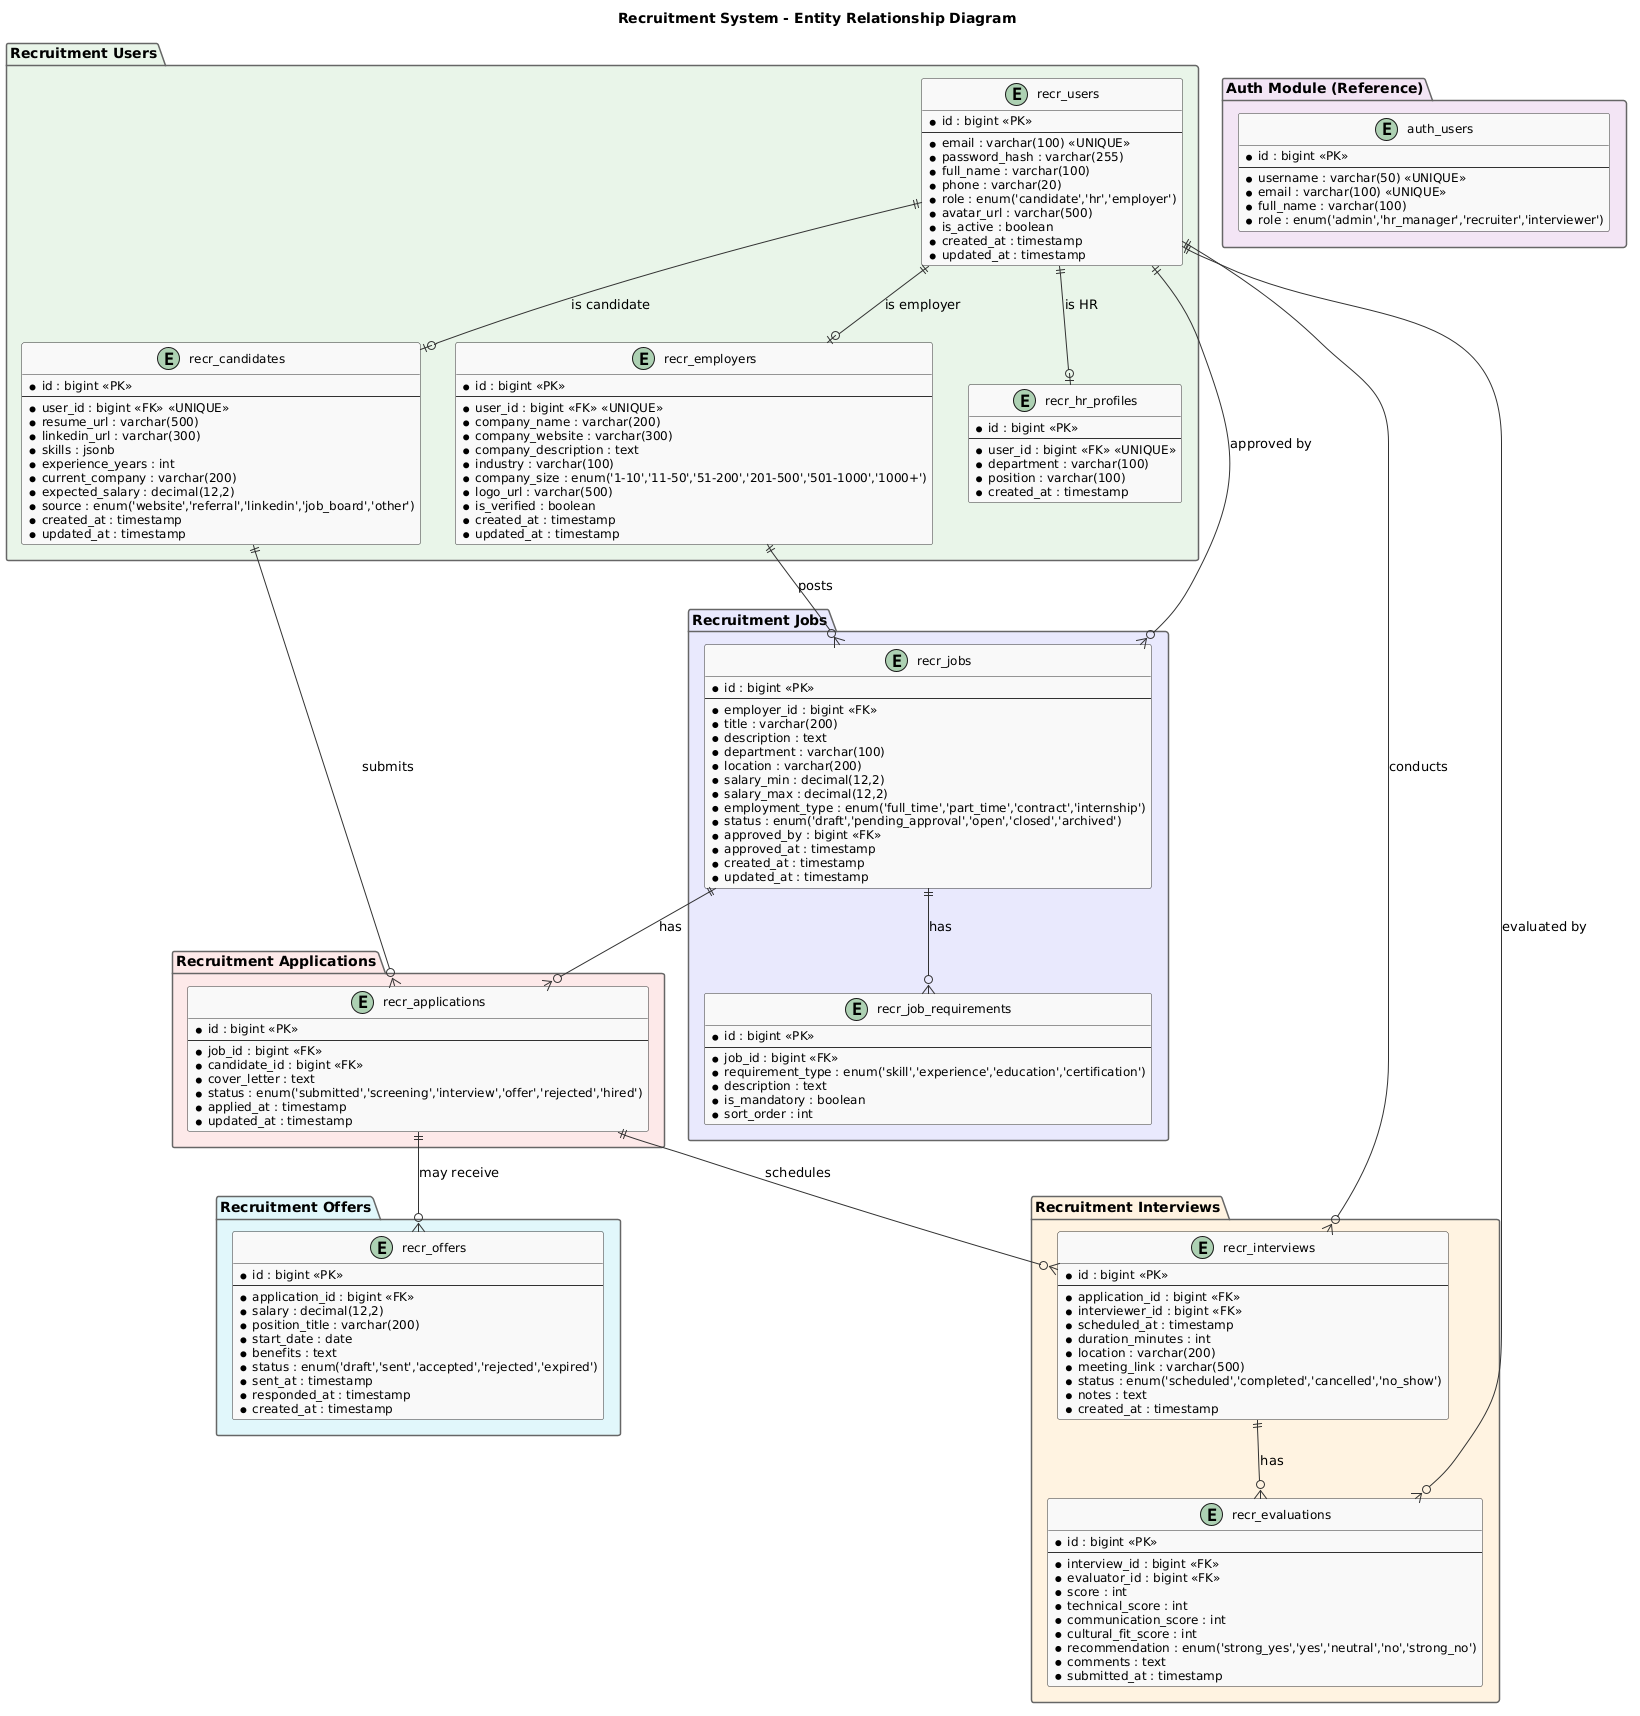
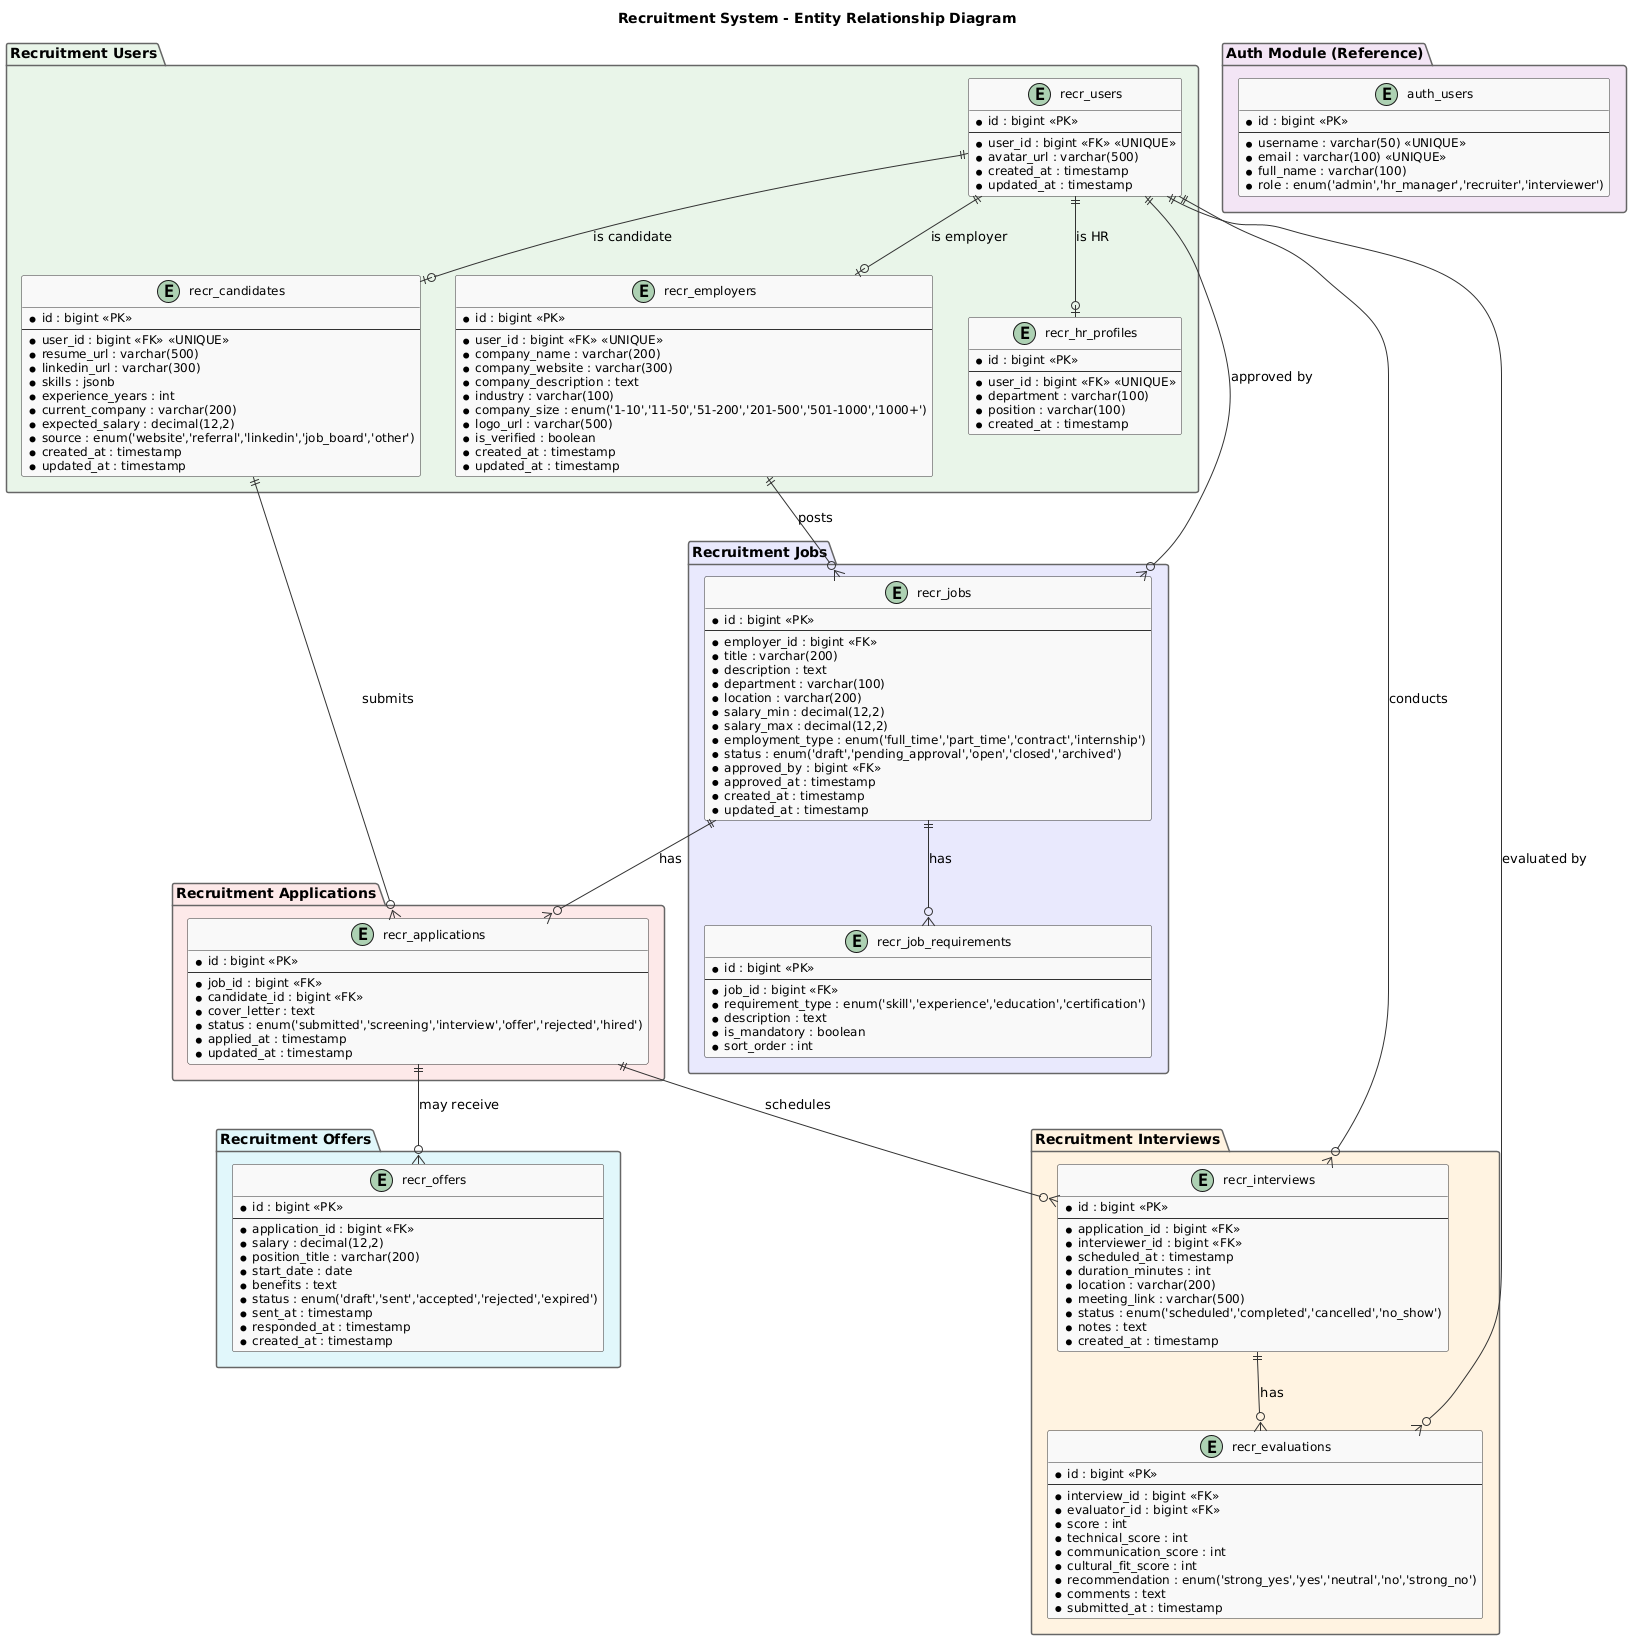
Move role to AUTH module, update UC-01 and UC-02
- Remove role and password_hash from recr_users (now in auth_users)
- UC-01: Pass role to AUTH during registration
- UC-02: AUTH reads role from auth_users, returns in JWT
- Update sequence diagrams and ERD to reflect AUTH/RECR split

diff --git a/modules/recr/src/srs.html b/modules/recr/src/srs.html
@@ -161,15 +161,17 @@
   <li>If Employer: user enters company name, industry, company size</li>
   <li>System validates input data</li>
   <li>System checks email availability</li>
-  <li>System hashes password and creates user record</li>
+  <li>System hashes password and creates user record <strong>with role</strong></li>
   <li>System creates profile (candidate or employer)</li>
-  <li>System generates JWT token</li>
+  <li>System generates JWT token <strong>with role claim</strong></li>
   <li>System returns success response</li>
 </ol>
 <p><strong>AUTH Module Dependency:</strong></p>
 <ul>
-  <li>Steps 5-6 (validate, check email, hash password, create user) are handled by <strong>AUTH module</strong> (FR-001)</li>
-  <li>AUTH returns user_id and JWT token to RECR</li>
+  <li>Steps 5-7 (validate, check email, hash password, create user <strong>with role</strong>) are handled by <strong>AUTH module</strong> (FR-001)</li>
+  <li>Role is passed from RECR to AUTH during registration</li>
+  <li>AUTH stores role in auth_users and includes it in JWT token</li>
+  <li>AUTH returns user_id and JWT token (with role) to RECR</li>
   <li>RECR then creates recruitment-specific profile (candidate or employer) and links to auth user</li>
 </ul>
 <p><strong>Alternative Flows:</strong></p>
@@ -207,6 +209,13 @@
   <li>System returns token and role</li>
   <li>Frontend redirects to role-specific dashboard</li>
 </ol>
+<p><strong>AUTH Module Dependency:</strong></p>
+<ul>
+  <li>Steps 2-6 (validate, check email, verify password, check active, generate JWT) are handled by <strong>AUTH module</strong> (FR-002)</li>
+  <li>AUTH reads role from auth_users table (stored during registration in UC-01)</li>
+  <li>AUTH returns JWT token with role claim to RECR</li>
+  <li>RECR uses role claim to redirect to appropriate dashboard (Candidate/HR/Employer)</li>
+</ul>
 <div class="diagram">
   <img src="./images/activity/uc02-login-activity.png" alt="UC-02 Activity Diagram">
   <div class="caption">Figure 5: UC-02 Login - Activity Diagram</div>
